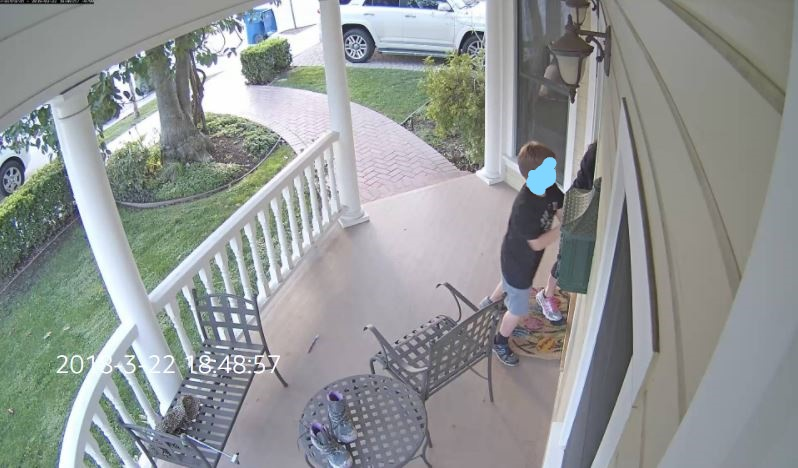
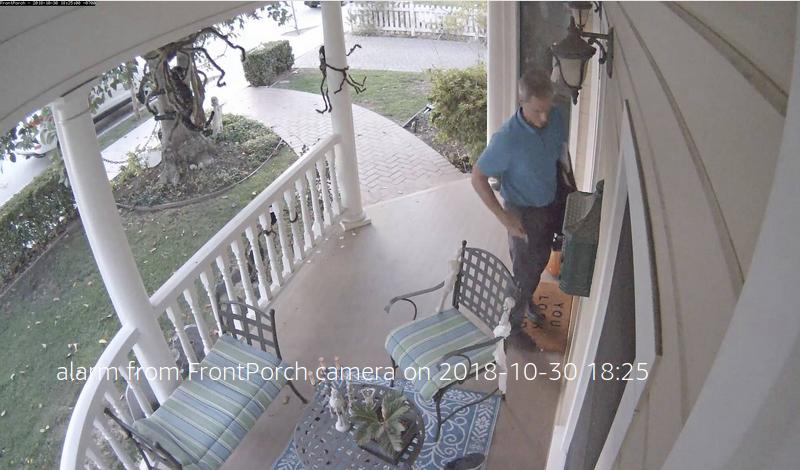
updated README.md

diff --git a/README.md b/README.md
@@ -28,13 +28,21 @@ General form:
 
 If the user does not provide a location then the most recent alarm will be shown from any camera and if a specific person or thing is not given then an alarm caused by any person will be shown. Location can be any camera name defined in the [configuration](./aws-lambda/alexa-smart-zoneminder/config.json) and PersonOrThing can be the name of any person defined in the configuration, 'stranger' for any person not defined or any label given in the [COCO](http://cocodataset.org/#home) dataset. The user can see a video corresponding to the alarm by asking Alexa to "show video clip."
 
-Specific example:
+Specific example 1:
 
 User: "Alexa, ask zone minder to show front porch alarm"
 
-Alexa: "Showing last alarm from front porch camera"
+Alexa: "Showing last alarm from front porch camera on 2018-10-30 18:25"
 
-![Alt text](./img/last-alarm-by-camera-name.jpg?raw=true "last alarm from camera example.")
+![Alt text](./img/last-alarm-by-camera-name.jpg?raw=true "Last alarm from camera example.")
+
+Specific example 2:
+
+User: "Alexa ask zone minder for back garage alarm of stranger"
+
+Alexa: "Alarm from back gargage caused by stranger on 2018-10-29 13:10"
+
+![Alt text](./img/stranger.png?raw=true "Show stranger example.")
 
 ## Ask Alexa to show alarms from a camera due to a person or thing starting from some time ago
 
@@ -48,25 +56,25 @@ Specific example 1:
 
 User: "Alexa, ask zone minder to show front porch alarms"
 
-Alexa: "Showing last alarms from front porch camera"
+Alexa: "Showing oldest alarms first from front porch camera"
 
-![Alt text](./img/last-alarms-example.jpg?raw=true "last alarms from camera example.")
+![Alt text](./img/last-alarms-example.jpg?raw=true "Last alarms from camera example.")
 
 Specific example 2:
 
-User: "Alexa, ask zone minder to show playroom alarms of Lindo"
+User: "Alexa, ask zone minder to show alarms of Lindo"
 
-Alexa: "Showing most recent alarms from playroom for Lindo"
+Alexa: "Showing latest alarms from all cameras caused by Lindo"
 
-![Alt text](./img/show-lindo-playroom.png?raw=true "show named person example.")
+![Alt text](./img/show-lindo-all.jpg?raw=true "Show all alarms of a person example.")
 
 Specific example 3:
 
 User: "Alexa, ask zone minder to show backyard alarms of Polly"
 
-Alexa: "Showing most recent alarms from backyard for Polly"
+Alexa: "Showing oldest alarms first from backyard for Polly"
 
-![Alt text](./img/show-polly-backyard.png?raw=true "show object example.")
+![Alt text](./img/show-polly-backyard.png?raw=true "show Polly example.")
 
 ## Ask Alexa to play a video of a last alarm from a camera
 
